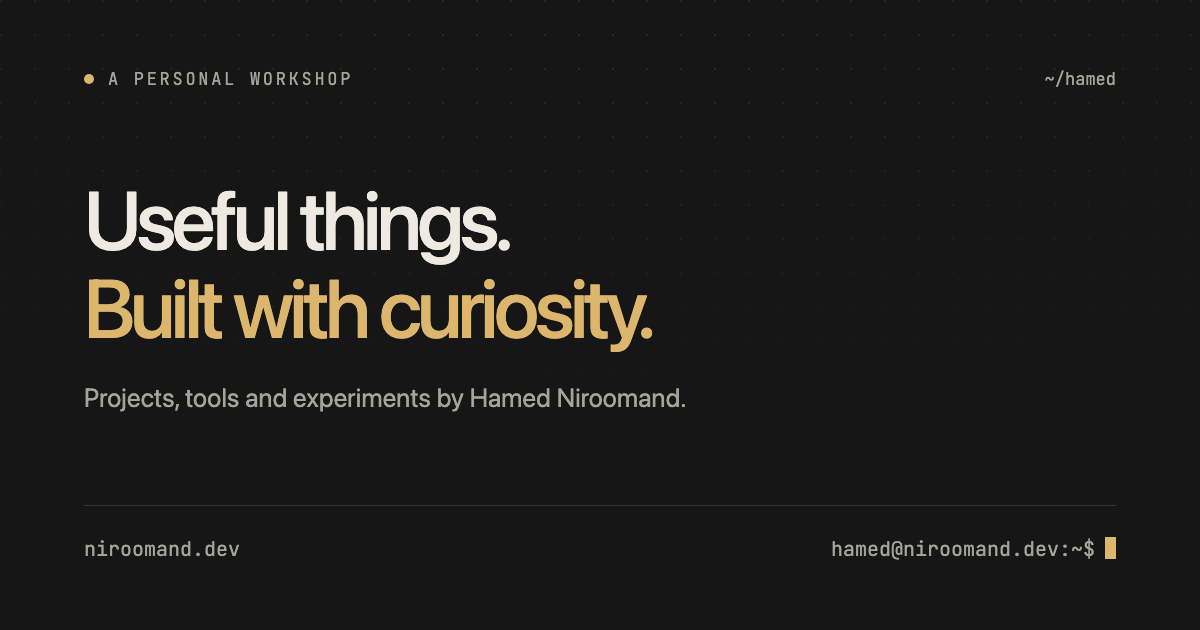
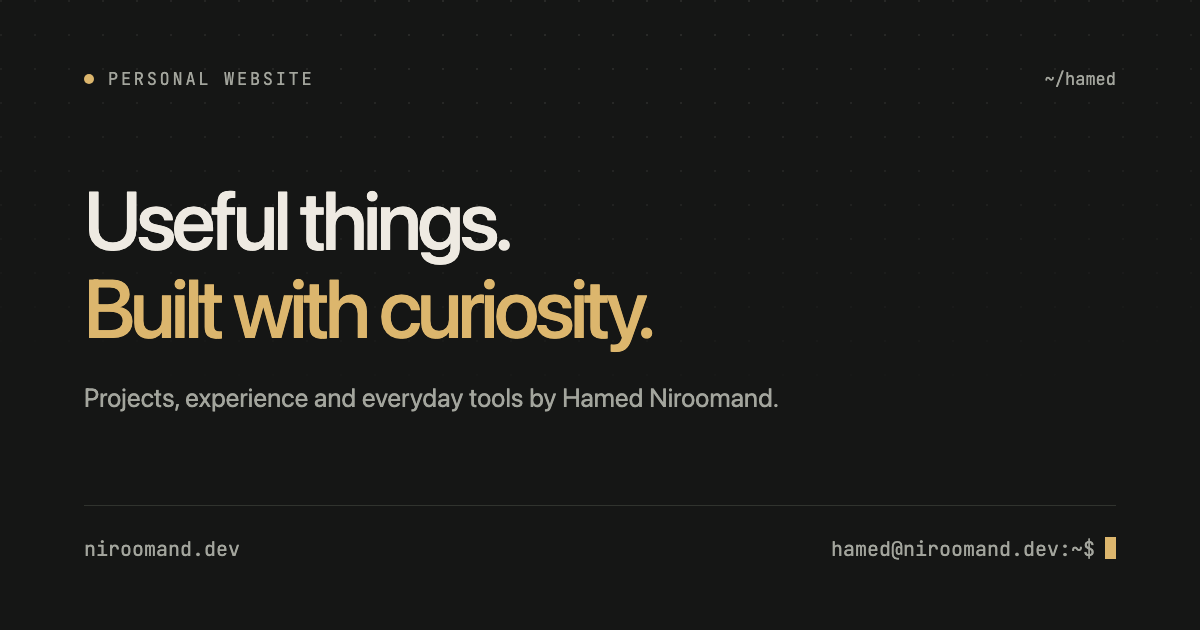
refactor(website): update terminology and descriptions to reflect personal branding changes

Changed region(s): [[0.1542, 0.6032, 0.6475, 0.6635], [0.0925, 0.0905, 0.2775, 0.1508]]

diff --git a/app/components/terminal/Terminal.vue b/app/components/terminal/Terminal.vue
@@ -1,6 +1,6 @@
 <script setup lang="ts">
   import type { PanelTarget } from '#shared/cv/panel-target';
-  import { publicPanelRoute } from '#shared/cv/panel-target';
+  import { publicNavigation } from '#shared/cv/panel-target';
   import { MOBILE_QUERY } from '#shared/layout';
 
   import type { MobileKey } from './MobileKeys.vue';
@@ -21,6 +21,7 @@
 
   const { navigate: navigatePanel } = usePanelNav();
   const terminalWindow = useTerminalWindow();
+  const currentRoute = useRoute();
   /**
    * On the public site the terminal opens the page of a target that has one, such as a
    * project or a dotfile. For all other targets it does nothing, so a visitor keeps the
@@ -31,10 +32,10 @@
       await navigatePanel(target);
       return;
     }
-    const route = publicPanelRoute(target);
+    const route = publicNavigation(target, currentRoute.path);
     if (!route) return;
     await navigateTo(route);
-    // The page is the answer to the command, so the window steps out of the way.
+    // The window steps out of the way, because the new page answers the command.
     terminalWindow.dispatch('minimize');
   }
   const { toggle } = useSplitPane();
@@ -133,7 +134,7 @@
   async function onBoot(): Promise<void> {
     booted.value = true;
     if (props.publicMode) {
-      shell.print('Hamed Niroomand — a personal workshop', 'accent');
+      shell.print('Hamed Niroomand — personal website', 'accent');
       shell.print('Read the projects, the work history and the dotfiles.');
       shell.print("Try 'ls projects', 'ls experience', or 'menu' for guided mode.", 'dim');
       shell.print('');

diff --git a/tests/unit/shared/panel-target.test.ts b/tests/unit/shared/panel-target.test.ts
@@ -5,6 +5,7 @@ import {
   dotfilePath,
   panelRoute,
   panelTargetId,
+  publicNavigation,
   publicPanelRoute,
 } from '#shared/cv/panel-target';
 
@@ -64,5 +65,22 @@ describe('publicPanelRoute', () => {
     for (const section of ['about', 'experience', 'skills', 'education'] as const)
       expect(publicPanelRoute({ section })).toBeNull();
     expect(publicPanelRoute({ section: 'experience', slug: 'jack-westin' })).toBeNull();
+  });
+});
+
+describe('publicNavigation', () => {
+  it('opens the page of a target that the visitor is not on', () => {
+    expect(publicNavigation({ section: 'projects', slug: 'cue' }, '/')).toBe('/projects/cue');
+    expect(publicNavigation({ section: 'dotfiles' }, '/projects/cue')).toBe('/dotfiles');
+  });
+
+  it('stays put when the target is the page already open', () => {
+    expect(publicNavigation({ section: 'projects', slug: 'cue' }, '/projects/cue')).toBeNull();
+    expect(publicNavigation({ section: 'dotfiles' }, '/dotfiles')).toBeNull();
+  });
+
+  it('stays put when the public site has no page for the target', () => {
+    expect(publicNavigation({ section: 'top' }, '/projects/cue')).toBeNull();
+    expect(publicNavigation({ section: 'experience', slug: 'thales' }, '/')).toBeNull();
   });
 });

diff --git a/app/pages/index.vue b/app/pages/index.vue
@@ -1,8 +1,8 @@
 <script setup lang="ts">
   const { projects, dotfiles, experience } = useCv();
   usePublicSeo(
-    'Hamed Niroomand — Projects, tools & experiments',
-    'Useful things, built with curiosity. Explore Cue, KitDev Space, and the configuration files behind my everyday work.',
+    'Hamed Niroomand — Projects & experience',
+    'Get to know Hamed Niroomand through his projects, professional experience, and everyday tools.',
   );
 </script>
 
@@ -13,14 +13,14 @@
       class="home-hero"
     >
       <div class="hero-caption">
-        <span class="status-dot" /> A PERSONAL WORKSHOP
+        <span class="status-dot" /> PERSONAL WEBSITE
         <span class="hero-caption__path">~/hamed</span>
       </div>
       <h1>Useful things.<br />Built with <span>curiosity.</span></h1>
       <div class="hero-bottom">
         <p>
           I’m Hamed. I make tools for the way I like to work.<br class="desktop-break" />
-          This is where they live, along with a few things from my setup.
+          Here you’ll find my projects, experience, and a few things from my setup.
         </p>
         <a
           href="#projects"

diff --git a/tests/e2e/public.spec.ts b/tests/e2e/public.spec.ts
@@ -148,3 +148,21 @@ test('the terminal minimizes when a command opens another page', async ({ page }
   await page.getByRole('button', { name: 'Restore terminal', exact: true }).click();
   await expect(page.getByRole('log')).toContainText('vue.volar');
 });
+
+test('a command for the page already open leaves the terminal alone', async ({ page }) => {
+  await page.goto('/projects/cue');
+  const dock = page.locator('#public-terminal');
+
+  // The path button runs `bat ~/projects/cue/README.md`, whose page is this one.
+  await page.getByRole('button', { name: /~\/projects\/cue/ }).click();
+  await expect(page.getByRole('log')).toContainText('Cue');
+  await expect(page).toHaveURL(/\/projects\/cue$/);
+  await expect(dock).not.toHaveClass(/terminal-dock--minimized/);
+
+  // A command whose page is a different one still steps out of the way.
+  const input = page.getByLabel('Terminal input');
+  await input.fill('cat ~/.config/Code/User/settings.json');
+  await input.press('Enter');
+  await expect(page).toHaveURL(/\/dotfiles\/vscode-settings$/);
+  await expect(dock).toHaveClass(/terminal-dock--minimized/);
+});

diff --git a/app/error.vue b/app/error.vue
@@ -18,8 +18,8 @@
       <p class="error-page__lede">
         {{
           missing
-            ? 'This page doesn’t live here. There’s still plenty to explore back at the workshop.'
-            : 'Try again in a moment, or head back to the workshop.'
+            ? 'This page doesn’t live here. There’s still plenty to explore on the homepage.'
+            : 'Try again in a moment, or head back home.'
         }}
       </p>
       <p class="error-page__prompt">hamed@{{ host }}:~$ open {{ route.fullPath }}</p>
@@ -27,7 +27,7 @@
         class="btn"
         href="/"
         @click.prevent="clearError({ redirect: '/' })"
-        >← Back to the workshop</a
+        >← Back to home</a
       >
     </div>
     <span

diff --git a/shared/cv/panel-target.ts b/shared/cv/panel-target.ts
@@ -53,3 +53,13 @@ export function publicPanelRoute(target: PanelTarget): string | null {
   if (target.section === 'projects' && target.slug) return projectPath(target.slug);
   return null;
 }
+
+/**
+ * The page the public terminal should open for a target, or null to stay where the visitor is.
+ * The result is null when the public site has no page for the target, and also when that page
+ * is the one already open. A command that opens nothing must not move or hide anything.
+ */
+export function publicNavigation(target: PanelTarget, currentPath: string): string | null {
+  const route = publicPanelRoute(target);
+  return route === null || route === currentPath ? null : route;
+}

diff --git a/tests/unit/terminal/commands/public.test.ts b/tests/unit/terminal/commands/public.test.ts
@@ -4,7 +4,7 @@ import { commands } from '~/terminal/commands';
 import { publicCommands } from '~/terminal/public-commands';
 import { makeShell } from '~~/tests/unit/fixtures/context';
 
-it('public whoami introduces the workshop without the candidate biography', async () => {
+it('public whoami introduces the personal website without the candidate biography', async () => {
   const term = makeShell(publicCommands(commands));
   await term.exec('whoami');
   expect(term.text()).toContain('Hamed Niroomand');

diff --git a/scripts/build-og.ts b/scripts/build-og.ts
@@ -66,11 +66,11 @@ function cards(profile: Profile): Card[] {
   return [
     {
       file: `public/${ogCardFile('home')}`,
-      eyebrow: 'A PERSONAL WORKSHOP',
+      eyebrow: 'PERSONAL WEBSITE',
       path: '~/hamed',
       heading: 'Useful things.',
       accent: 'Built with curiosity.',
-      line: 'Projects, tools and experiments by Hamed Niroomand.',
+      line: 'Projects, experience and everyday tools by Hamed Niroomand.',
     },
     {
       file: `public/${ogCardFile('resume')}`,

diff --git a/tests/e2e/dotfiles.spec.ts b/tests/e2e/dotfiles.spec.ts
@@ -136,7 +136,7 @@ test.describe('terminal navigation between pages', () => {
     await expect(page.getByRole('log')).toContainText('editor.fontFamily');
   });
 
-  test('cat about.md stays in the public workshop', async ({ page }) => {
+  test('cat about.md stays on the personal website', async ({ page }) => {
     await page.goto('/dotfiles/vscode-settings');
     await runCommand(page, 'cat ~/about.md');
     await expect(page).toHaveURL(/\/dotfiles\/vscode-settings$/);

diff --git a/app/layouts/resume.vue b/app/layouts/resume.vue
@@ -4,7 +4,7 @@
       class="resume-nav"
       aria-label="Résumé navigation"
     >
-      <NuxtLink to="/">← Back to the workshop</NuxtLink>
+      <NuxtLink to="/">← Back to home</NuxtLink>
       <span>Curriculum vitae <span aria-hidden="true">/</span> Hamed Niroomand</span>
     </nav>
     <SiteShell panel-label="Resume"><slot /></SiteShell>

diff --git a/app/components/terminal/TuiApp.vue b/app/components/terminal/TuiApp.vue
@@ -206,7 +206,7 @@
   );
 
   if (props.publicMode) {
-    view.print('Welcome to the workshop.');
+    view.print('Welcome to my personal website.');
     view.print('Type / to list the commands, or pick one of these:');
     view.print('/projects   /dotfiles   /theme   /contact', 'dim');
   } else {

diff --git a/app/terminal/public-commands.ts b/app/terminal/public-commands.ts
@@ -4,7 +4,7 @@ import type { Command } from './types';
 
 const whoami: Command = {
   name: 'whoami',
-  description: 'Meet the person behind the workshop',
+  description: 'Get to know Hamed Niroomand',
   usage: 'whoami',
   run(_argv, ctx) {
     ctx.stdout.line(ctx.cv.profile.name, 'accent');
